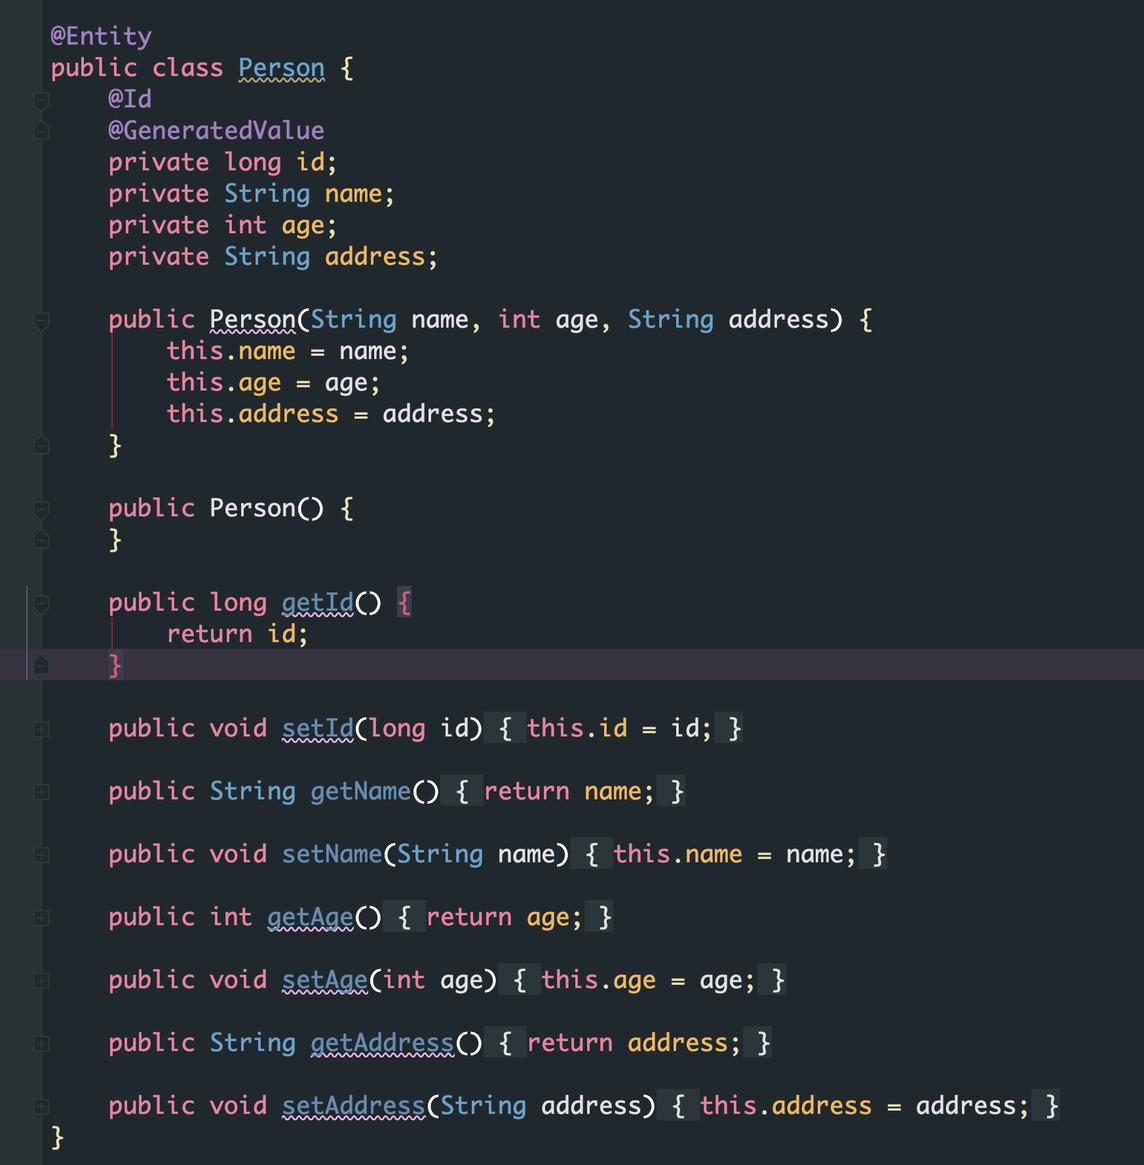
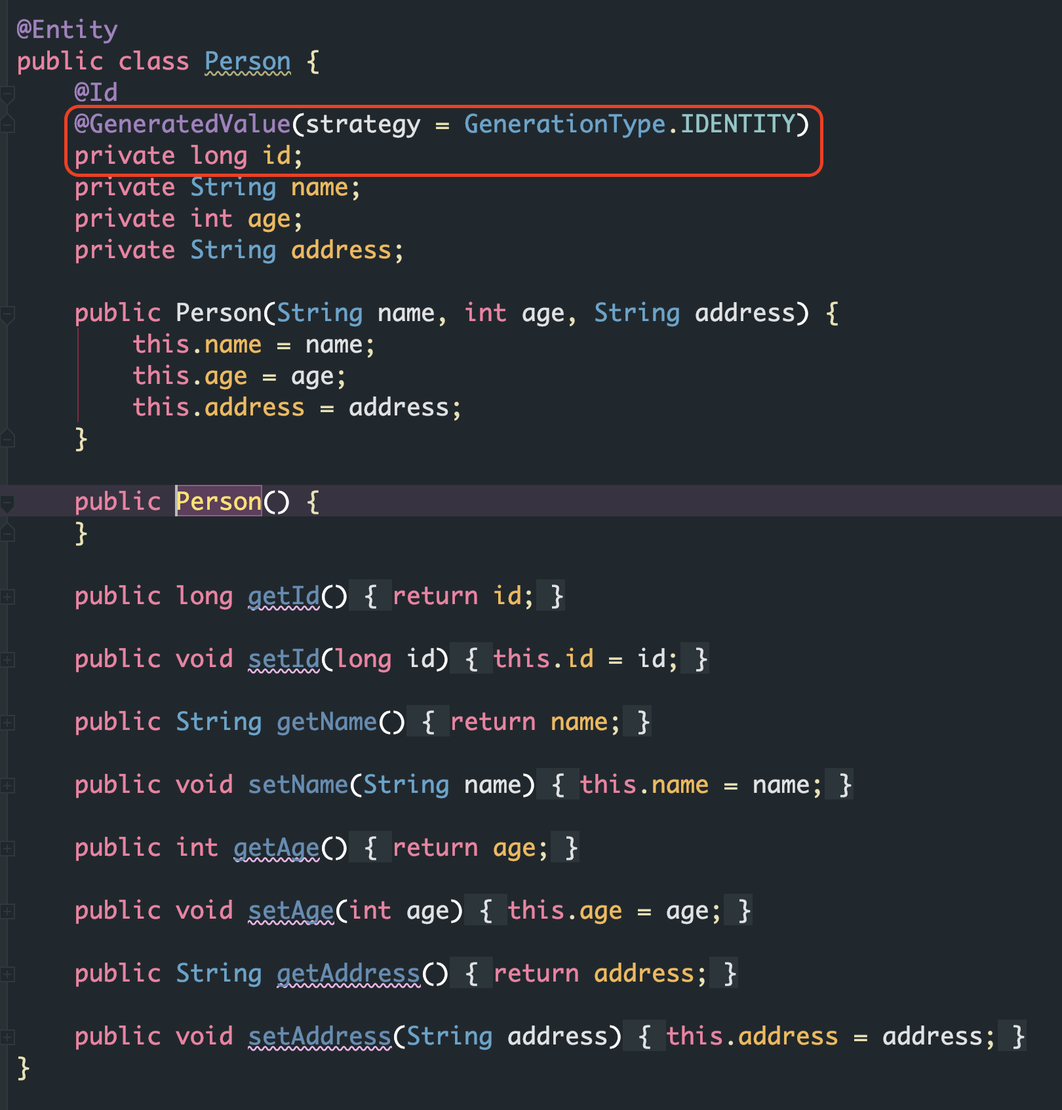
Site updated: 2019-07-10 22:53:06

diff --git a/2019/07/08/stream/index.html b/2019/07/08/stream/index.html
@@ -79,18 +79,18 @@
 
 
 
-<meta name="description" content="JDK1.8 提供了流Stream的API。将数据元素集合看作流，流在管道中传输，并且可以在管道的节点对数据进行筛选、排序，聚合等处理。    1stream of elements -&amp;gt; [filter]-&amp;gt;[sort]-&amp;gt;[map|collect] 什么是流流(Stream)是来自数据源可以进行聚合操作的元素队列。    数据源：流的来源，可以是集合，数组，I/O chann">
+<meta name="description" content="JDK1.8 提供了流Stream的API。将数据元素集合看作流，流在管道中传输，并且可以在管道的节点对数据进行筛选、排序，聚合等处理。    什么是流流(Stream)是来自数据源可以进行聚合操作的元素队列。    数据源：流的来源，可以是集合，数组，I/O channel等。 聚合操作：如filter、map、reduce、find、match、sort等。  流操作的特点 针对流的操作都会立">
 <meta name="keywords" content="java,java8,Stream,学习笔记">
 <meta property="og:type" content="article">
 <meta property="og:title" content="stream">
 <meta property="og:url" content="http://yoursite.com/2019/07/08/stream/index.html">
 <meta property="og:site_name" content="小磊砸的布劳格">
-<meta property="og:description" content="JDK1.8 提供了流Stream的API。将数据元素集合看作流，流在管道中传输，并且可以在管道的节点对数据进行筛选、排序，聚合等处理。    1stream of elements -&amp;gt; [filter]-&amp;gt;[sort]-&amp;gt;[map|collect] 什么是流流(Stream)是来自数据源可以进行聚合操作的元素队列。    数据源：流的来源，可以是集合，数组，I/O chann">
+<meta property="og:description" content="JDK1.8 提供了流Stream的API。将数据元素集合看作流，流在管道中传输，并且可以在管道的节点对数据进行筛选、排序，聚合等处理。    什么是流流(Stream)是来自数据源可以进行聚合操作的元素队列。    数据源：流的来源，可以是集合，数组，I/O channel等。 聚合操作：如filter、map、reduce、find、match、sort等。  流操作的特点 针对流的操作都会立">
 <meta property="og:locale" content="zh-Hans">
-<meta property="og:updated_time" content="2019-07-08T15:22:07.308Z">
+<meta property="og:updated_time" content="2019-07-10T14:52:39.273Z">
 <meta name="twitter:card" content="summary">
 <meta name="twitter:title" content="stream">
-<meta name="twitter:description" content="JDK1.8 提供了流Stream的API。将数据元素集合看作流，流在管道中传输，并且可以在管道的节点对数据进行筛选、排序，聚合等处理。    1stream of elements -&amp;gt; [filter]-&amp;gt;[sort]-&amp;gt;[map|collect] 什么是流流(Stream)是来自数据源可以进行聚合操作的元素队列。    数据源：流的来源，可以是集合，数组，I/O chann">
+<meta name="twitter:description" content="JDK1.8 提供了流Stream的API。将数据元素集合看作流，流在管道中传输，并且可以在管道的节点对数据进行筛选、排序，聚合等处理。    什么是流流(Stream)是来自数据源可以进行聚合操作的元素队列。    数据源：流的来源，可以是集合，数组，I/O channel等。 聚合操作：如filter、map、reduce、find、match、sort等。  流操作的特点 针对流的操作都会立">
 
 
 
@@ -344,14 +344,48 @@
 
       
         <p>JDK1.8 提供了流Stream的API。将数据元素集合看作流，流在管道中传输，并且可以在管道的节点对数据进行筛选、排序，聚合等处理。   </p>
-<figure class="highlight plain"><table><tr><td class="gutter"><pre><span class="line">1</span><br></pre></td><td class="code"><pre><span class="line">stream of elements -&gt; [filter]-&gt;[sort]-&gt;[map|collect]</span><br></pre></td></tr></table></figure>
 <h1 id="什么是流"><a href="#什么是流" class="headerlink" title="什么是流"></a>什么是流</h1><p>流(Stream)是来自数据源可以进行聚合操作的元素队列。  </p>
 <ul>
 <li>数据源：流的来源，可以是集合，数组，I/O channel等。</li>
 <li>聚合操作：如filter、map、reduce、find、match、sort等。</li>
 </ul>
-<h1 id="生成流"><a href="#生成流" class="headerlink" title="生成流"></a>生成流</h1><h1 id="参考资料"><a href="#参考资料" class="headerlink" title="参考资料"></a>参考资料</h1><blockquote>
-<p><a href="https://www.runoob.com/java/java8-streams.html" target="_blank" rel="noopener">菜鸟教程：Stream</a>  </p>
+<h2 id="流操作的特点"><a href="#流操作的特点" class="headerlink" title="流操作的特点"></a>流操作的特点</h2><ul>
+<li>针对流的操作都会立即返回流对象本身，这样多个流的操作会串联成一个管道，流式编码风格(fluent style)，便于对操作进行<strong>延迟执行和短路。</strong></li>
+<li>集合之前的遍历都是通过迭代器iterator或者forEach的方式，显示的从集合外部进行迭代，而<strong>流采用访问者模式进行内部迭代。</strong></li>
+</ul>
+<h3 id="内部迭代与外部迭代的差异"><a href="#内部迭代与外部迭代的差异" class="headerlink" title="内部迭代与外部迭代的差异"></a>内部迭代与外部迭代的差异</h3><table>
+<thead>
+<tr>
+<th>方式</th>
+<th>可控</th>
+<th>顺序</th>
+<th>可并行</th>
+</tr>
+</thead>
+<tbody>
+<tr>
+<td>外部迭代</td>
+<td>✅</td>
+<td>✅</td>
+<td>❌</td>
+</tr>
+<tr>
+<td>内部迭代</td>
+<td>❌</td>
+<td>❌</td>
+<td>✅</td>
+</tr>
+</tbody>
+</table>
+<p><strong>内部迭代的顺序不一定顺序，❌仅仅表示不一定。</strong><br><strong>内部迭代的可并行通过parallelStream()方法，可以并行操作，大幅度提升性能。</strong></p>
+<h1 id="如何操作流"><a href="#如何操作流" class="headerlink" title="如何操作流"></a>如何操作流</h1><figure class="highlight plain"><table><tr><td class="gutter"><pre><span class="line">1</span><br></pre></td><td class="code"><pre><span class="line">生成流 | 中间操作 | 最终操作</span><br></pre></td></tr></table></figure>
+<p>对于流的操作，其实主要就是由生成流、中间操作和最终操作三部分组成。<br><strong>对于一次的流操作，可以有多个中间操作，有且只有一次最终操作。其中中间操作也称为转换操作，即多次中间操作是在对流数据进行转换，这种转换的效率并不受数据的量级影响，转换操作反而是一种惰性求值的过程。而有切只有一次的最终操作其实是将前面所有的转换处理一次执行，这一步会受到数据量级的影响，属于及早求值。</strong>  </p>
+<h1 id="生成流"><a href="#生成流" class="headerlink" title="生成流"></a>生成流</h1><ul>
+<li>stream()方法，会返回流。  </li>
+<li>parallelStream()方法，会为集合创建可并行的流。  </li>
+</ul>
+<h1 id="中间操作"><a href="#中间操作" class="headerlink" title="中间操作"></a>中间操作</h1><h1 id="最终操作"><a href="#最终操作" class="headerlink" title="最终操作"></a>最终操作</h1><h1 id="参考资料"><a href="#参考资料" class="headerlink" title="参考资料"></a>参考资料</h1><blockquote>
+<p><a href="https://www.runoob.com/java/java8-streams.html" target="_blank" rel="noopener">菜鸟教程：Stream</a><br><a href="https://www.cnblogs.com/mrhgw/p/9171883.html" target="_blank" rel="noopener">CSDN：stream详解</a>  </p>
 </blockquote>
 
       
@@ -543,7 +577,7 @@
             
 
             
-              <div class="post-toc-content"><ol class="nav"><li class="nav-item nav-level-1"><a class="nav-link" href="#什么是流"><span class="nav-number">1.</span> <span class="nav-text">什么是流</span></a></li><li class="nav-item nav-level-1"><a class="nav-link" href="#生成流"><span class="nav-number">2.</span> <span class="nav-text">生成流</span></a></li><li class="nav-item nav-level-1"><a class="nav-link" href="#参考资料"><span class="nav-number">3.</span> <span class="nav-text">参考资料</span></a></li></ol></div>
+              <div class="post-toc-content"><ol class="nav"><li class="nav-item nav-level-1"><a class="nav-link" href="#什么是流"><span class="nav-number">1.</span> <span class="nav-text">什么是流</span></a><ol class="nav-child"><li class="nav-item nav-level-2"><a class="nav-link" href="#流操作的特点"><span class="nav-number">1.1.</span> <span class="nav-text">流操作的特点</span></a><ol class="nav-child"><li class="nav-item nav-level-3"><a class="nav-link" href="#内部迭代与外部迭代的差异"><span class="nav-number">1.1.1.</span> <span class="nav-text">内部迭代与外部迭代的差异</span></a></li></ol></li></ol></li><li class="nav-item nav-level-1"><a class="nav-link" href="#如何操作流"><span class="nav-number">2.</span> <span class="nav-text">如何操作流</span></a></li><li class="nav-item nav-level-1"><a class="nav-link" href="#生成流"><span class="nav-number">3.</span> <span class="nav-text">生成流</span></a></li><li class="nav-item nav-level-1"><a class="nav-link" href="#中间操作"><span class="nav-number">4.</span> <span class="nav-text">中间操作</span></a></li><li class="nav-item nav-level-1"><a class="nav-link" href="#最终操作"><span class="nav-number">5.</span> <span class="nav-text">最终操作</span></a></li><li class="nav-item nav-level-1"><a class="nav-link" href="#参考资料"><span class="nav-number">6.</span> <span class="nav-text">参考资料</span></a></li></ol></div>
             
 
           </div>

diff --git a/index.html b/index.html
@@ -344,14 +344,48 @@
         
           
             <p>JDK1.8 提供了流Stream的API。将数据元素集合看作流，流在管道中传输，并且可以在管道的节点对数据进行筛选、排序，聚合等处理。   </p>
-<figure class="highlight plain"><table><tr><td class="gutter"><pre><span class="line">1</span><br></pre></td><td class="code"><pre><span class="line">stream of elements -&gt; [filter]-&gt;[sort]-&gt;[map|collect]</span><br></pre></td></tr></table></figure>
 <h1 id="什么是流"><a href="#什么是流" class="headerlink" title="什么是流"></a>什么是流</h1><p>流(Stream)是来自数据源可以进行聚合操作的元素队列。  </p>
 <ul>
 <li>数据源：流的来源，可以是集合，数组，I/O channel等。</li>
 <li>聚合操作：如filter、map、reduce、find、match、sort等。</li>
 </ul>
-<h1 id="生成流"><a href="#生成流" class="headerlink" title="生成流"></a>生成流</h1><h1 id="参考资料"><a href="#参考资料" class="headerlink" title="参考资料"></a>参考资料</h1><blockquote>
-<p><a href="https://www.runoob.com/java/java8-streams.html" target="_blank" rel="noopener">菜鸟教程：Stream</a>  </p>
+<h2 id="流操作的特点"><a href="#流操作的特点" class="headerlink" title="流操作的特点"></a>流操作的特点</h2><ul>
+<li>针对流的操作都会立即返回流对象本身，这样多个流的操作会串联成一个管道，流式编码风格(fluent style)，便于对操作进行<strong>延迟执行和短路。</strong></li>
+<li>集合之前的遍历都是通过迭代器iterator或者forEach的方式，显示的从集合外部进行迭代，而<strong>流采用访问者模式进行内部迭代。</strong></li>
+</ul>
+<h3 id="内部迭代与外部迭代的差异"><a href="#内部迭代与外部迭代的差异" class="headerlink" title="内部迭代与外部迭代的差异"></a>内部迭代与外部迭代的差异</h3><table>
+<thead>
+<tr>
+<th>方式</th>
+<th>可控</th>
+<th>顺序</th>
+<th>可并行</th>
+</tr>
+</thead>
+<tbody>
+<tr>
+<td>外部迭代</td>
+<td>✅</td>
+<td>✅</td>
+<td>❌</td>
+</tr>
+<tr>
+<td>内部迭代</td>
+<td>❌</td>
+<td>❌</td>
+<td>✅</td>
+</tr>
+</tbody>
+</table>
+<p><strong>内部迭代的顺序不一定顺序，❌仅仅表示不一定。</strong><br><strong>内部迭代的可并行通过parallelStream()方法，可以并行操作，大幅度提升性能。</strong></p>
+<h1 id="如何操作流"><a href="#如何操作流" class="headerlink" title="如何操作流"></a>如何操作流</h1><figure class="highlight plain"><table><tr><td class="gutter"><pre><span class="line">1</span><br></pre></td><td class="code"><pre><span class="line">生成流 | 中间操作 | 最终操作</span><br></pre></td></tr></table></figure>
+<p>对于流的操作，其实主要就是由生成流、中间操作和最终操作三部分组成。<br><strong>对于一次的流操作，可以有多个中间操作，有且只有一次最终操作。其中中间操作也称为转换操作，即多次中间操作是在对流数据进行转换，这种转换的效率并不受数据的量级影响，转换操作反而是一种惰性求值的过程。而有切只有一次的最终操作其实是将前面所有的转换处理一次执行，这一步会受到数据量级的影响，属于及早求值。</strong>  </p>
+<h1 id="生成流"><a href="#生成流" class="headerlink" title="生成流"></a>生成流</h1><ul>
+<li>stream()方法，会返回流。  </li>
+<li>parallelStream()方法，会为集合创建可并行的流。  </li>
+</ul>
+<h1 id="中间操作"><a href="#中间操作" class="headerlink" title="中间操作"></a>中间操作</h1><h1 id="最终操作"><a href="#最终操作" class="headerlink" title="最终操作"></a>最终操作</h1><h1 id="参考资料"><a href="#参考资料" class="headerlink" title="参考资料"></a>参考资料</h1><blockquote>
+<p><a href="https://www.runoob.com/java/java8-streams.html" target="_blank" rel="noopener">菜鸟教程：Stream</a><br><a href="https://www.cnblogs.com/mrhgw/p/9171883.html" target="_blank" rel="noopener">CSDN：stream详解</a>  </p>
 </blockquote>
 
           
@@ -1228,7 +1262,8 @@
 <figure class="highlight plain"><table><tr><td class="gutter"><pre><span class="line">1</span><br></pre></td><td class="code"><pre><span class="line">CREATE TABLE `person` ( `id` int(20) NOT NULL, `name` varchar(20) DEFAULT NULL,`age` int(3) DEFAULT NULL, `address` varchar(20)DEFAULT NULL, PRIMARY KEY (`id`) ) ENGINE=InnoDB DEFAULT CHARSET=utf8</span><br></pre></td></tr></table></figure>
 <p><strong>在实际运行的时候发现，这里存储的sql语句不能有换行符，不然自动初始化表结构的时候会报错</strong></p>
 <h4 id="初始化数据"><a href="#初始化数据" class="headerlink" title="初始化数据"></a>初始化数据</h4><p>在src/main/resources下增加data.sql用来初始化数据。</p>
-<figure class="highlight plain"><table><tr><td class="gutter"><pre><span class="line">1</span><br><span class="line">2</span><br><span class="line">3</span><br></pre></td><td class="code"><pre><span class="line">insert into person(id,name,age,address) values(1,&apos;tl&apos;,27,&apos;beijing&apos;);  </span><br><span class="line">insert into person(id,name,age,address) values(2,&apos;tl01&apos;,20,&apos;wujiaqu&apos;);  </span><br><span class="line">insert into person(id,name,age,address) values(3,&apos;tl03&apos;,21,&apos;xinjiang&apos;);</span><br></pre></td></tr></table></figure>
+<figure class="highlight plain"><table><tr><td class="gutter"><pre><span class="line">1</span><br><span class="line">2</span><br><span class="line">3</span><br><span class="line">4</span><br><span class="line">5</span><br></pre></td><td class="code"><pre><span class="line">insert into person(name,age,address) values(&apos;汪云飞&apos;,32,&apos;合肥&apos;);</span><br><span class="line">insert into person(name,age,address) values(&apos;ta&apos;,32,&apos;合肥&apos;);</span><br><span class="line">insert into person(name,age,address) values(&apos;s&apos;,32,&apos;合肥&apos;);</span><br><span class="line">insert into person(name,age,address) values(&apos;asd&apos;,32,&apos;合肥&apos;);</span><br><span class="line">insert into person(name,age,address) values(&apos;ass&apos;,32,&apos;合肥&apos;);</span><br></pre></td></tr></table></figure>
+<p><strong>这里需要注意的是，mysql对于主键的生成机制是不支持sequence的，书上主键是通过hibernate_sequence.nextval来获取下一个主键这样插入数据的，我这里运行的时候就会报错不识别hibernate_sequence.nextval。所以我在实体类对于主键的生成策略改成了identity，这里的sql脚本就不再关注主键字段，数据库会自动生成。</strong></p>
 <p>需要在应用启动的时候自动初始化数据库，需要在application.properties中配置如下参数</p>
 <figure class="highlight plain"><table><tr><td class="gutter"><pre><span class="line">1</span><br><span class="line">2</span><br><span class="line">3</span><br><span class="line">4</span><br><span class="line">5</span><br><span class="line">6</span><br></pre></td><td class="code"><pre><span class="line"># 指定创建表的脚本</span><br><span class="line">spring.datasource.schema=classpath:table.sql</span><br><span class="line"># 指定初始化数据库的脚本</span><br><span class="line">spring.datasource.data=classpath:data.sql</span><br><span class="line"># 指定初始化的模式(always 总是/)</span><br><span class="line">spring.datasource.initialization-mode=always</span><br></pre></td></tr></table></figure>
 <h4 id="JPA配置-1"><a href="#JPA配置-1" class="headerlink" title="JPA配置"></a>JPA配置</h4><p>在application.properites中增加jpa的配置.</p>
@@ -1270,11 +1305,11 @@
 <li>这里的show-sql参数时设置hibernate操作时在控制台显示实际执行的sql语句</li>
 <li>serialization 控制器输出json字符串格式更加美观</li>
 </ul>
-<h4 id="实体类"><a href="#实体类" class="headerlink" title="实体类"></a>实体类</h4><p><img src="/2019/06/30/springboot-7/entity.png" alt="实体Person源码"></p>
+<h4 id="实体类"><a href="#实体类" class="headerlink" title="实体类"></a>实体类</h4><p><img src="/2019/06/30/springboot-7/entity.png" alt="实体Person源码">  </p>
 <p>如上图所示，增加实体类Person。</p>
 <ul>
 <li>用@Entity注解修饰类 表明该类是实体类</li>
-<li>主键字段用@Id注解，同时使用@GeneratedValue表明主键生成策略为自增，hibernate会自动在数据库中创建一个hibernate_sequence的序列。</li>
+<li>主键字段用@Id注解，同时使用@GeneratedValue表明主键生成策略为自增，hibernate会自动在数据库中创建一个hibernate_sequence的序列。 <strong>我这里专门修改了主键的生成机制</strong></li>
 </ul>
 <p><img src="/2019/06/30/springboot-7/hibernate_sequence.png" alt="hibernate_sequence序列"></p>
 <h4 id="数据访问接口"><a href="#数据访问接口" class="headerlink" title="数据访问接口"></a>数据访问接口</h4><p><img src="/2019/06/30/springboot-7/repository.png" alt="数据访问接口PersonRepository源码">  </p>

diff --git a/2019/06/30/springboot-7/index.html b/2019/06/30/springboot-7/index.html
@@ -105,7 +105,7 @@
 <meta property="og:image" content="http://yoursite.com/2019/06/30/springboot-7/repository.png">
 <meta property="og:image" content="http://yoursite.com/2019/06/30/springboot-7/controller.png">
 <meta property="og:image" content="http://yoursite.com/2019/06/30/springboot-7/test.png">
-<meta property="og:updated_time" content="2019-07-10T14:08:53.436Z">
+<meta property="og:updated_time" content="2019-07-10T14:14:42.466Z">
 <meta name="twitter:card" content="summary">
 <meta name="twitter:title" content="springboot 数据访问">
 <meta name="twitter:description" content="Spring DataSpring Data是Spring用于解决数据访问问题的一系列解决方案。包含大量关系型数据库及非关系型数据库的数据访问解决方案。Spring Data 提供统一的API来进行数据访问操作而屏蔽了不同数据存储技术的差异。Spring提供Spring Data Commons项目无论使用关系型数据库还是非关系型数据库，都能够有Spring的统一标准，该标准提供CRUD(创建，获">
@@ -423,7 +423,8 @@
 <figure class="highlight plain"><table><tr><td class="gutter"><pre><span class="line">1</span><br></pre></td><td class="code"><pre><span class="line">CREATE TABLE `person` ( `id` int(20) NOT NULL, `name` varchar(20) DEFAULT NULL,`age` int(3) DEFAULT NULL, `address` varchar(20)DEFAULT NULL, PRIMARY KEY (`id`) ) ENGINE=InnoDB DEFAULT CHARSET=utf8</span><br></pre></td></tr></table></figure>
 <p><strong>在实际运行的时候发现，这里存储的sql语句不能有换行符，不然自动初始化表结构的时候会报错</strong></p>
 <h4 id="初始化数据"><a href="#初始化数据" class="headerlink" title="初始化数据"></a>初始化数据</h4><p>在src/main/resources下增加data.sql用来初始化数据。</p>
-<figure class="highlight plain"><table><tr><td class="gutter"><pre><span class="line">1</span><br><span class="line">2</span><br><span class="line">3</span><br></pre></td><td class="code"><pre><span class="line">insert into person(id,name,age,address) values(1,&apos;tl&apos;,27,&apos;beijing&apos;);  </span><br><span class="line">insert into person(id,name,age,address) values(2,&apos;tl01&apos;,20,&apos;wujiaqu&apos;);  </span><br><span class="line">insert into person(id,name,age,address) values(3,&apos;tl03&apos;,21,&apos;xinjiang&apos;);</span><br></pre></td></tr></table></figure>
+<figure class="highlight plain"><table><tr><td class="gutter"><pre><span class="line">1</span><br><span class="line">2</span><br><span class="line">3</span><br><span class="line">4</span><br><span class="line">5</span><br></pre></td><td class="code"><pre><span class="line">insert into person(name,age,address) values(&apos;汪云飞&apos;,32,&apos;合肥&apos;);</span><br><span class="line">insert into person(name,age,address) values(&apos;ta&apos;,32,&apos;合肥&apos;);</span><br><span class="line">insert into person(name,age,address) values(&apos;s&apos;,32,&apos;合肥&apos;);</span><br><span class="line">insert into person(name,age,address) values(&apos;asd&apos;,32,&apos;合肥&apos;);</span><br><span class="line">insert into person(name,age,address) values(&apos;ass&apos;,32,&apos;合肥&apos;);</span><br></pre></td></tr></table></figure>
+<p><strong>这里需要注意的是，mysql对于主键的生成机制是不支持sequence的，书上主键是通过hibernate_sequence.nextval来获取下一个主键这样插入数据的，我这里运行的时候就会报错不识别hibernate_sequence.nextval。所以我在实体类对于主键的生成策略改成了identity，这里的sql脚本就不再关注主键字段，数据库会自动生成。</strong></p>
 <p>需要在应用启动的时候自动初始化数据库，需要在application.properties中配置如下参数</p>
 <figure class="highlight plain"><table><tr><td class="gutter"><pre><span class="line">1</span><br><span class="line">2</span><br><span class="line">3</span><br><span class="line">4</span><br><span class="line">5</span><br><span class="line">6</span><br></pre></td><td class="code"><pre><span class="line"># 指定创建表的脚本</span><br><span class="line">spring.datasource.schema=classpath:table.sql</span><br><span class="line"># 指定初始化数据库的脚本</span><br><span class="line">spring.datasource.data=classpath:data.sql</span><br><span class="line"># 指定初始化的模式(always 总是/)</span><br><span class="line">spring.datasource.initialization-mode=always</span><br></pre></td></tr></table></figure>
 <h4 id="JPA配置-1"><a href="#JPA配置-1" class="headerlink" title="JPA配置"></a>JPA配置</h4><p>在application.properites中增加jpa的配置.</p>
@@ -465,11 +466,11 @@
 <li>这里的show-sql参数时设置hibernate操作时在控制台显示实际执行的sql语句</li>
 <li>serialization 控制器输出json字符串格式更加美观</li>
 </ul>
-<h4 id="实体类"><a href="#实体类" class="headerlink" title="实体类"></a>实体类</h4><p><img src="/2019/06/30/springboot-7/entity.png" alt="实体Person源码"></p>
+<h4 id="实体类"><a href="#实体类" class="headerlink" title="实体类"></a>实体类</h4><p><img src="/2019/06/30/springboot-7/entity.png" alt="实体Person源码">  </p>
 <p>如上图所示，增加实体类Person。</p>
 <ul>
 <li>用@Entity注解修饰类 表明该类是实体类</li>
-<li>主键字段用@Id注解，同时使用@GeneratedValue表明主键生成策略为自增，hibernate会自动在数据库中创建一个hibernate_sequence的序列。</li>
+<li>主键字段用@Id注解，同时使用@GeneratedValue表明主键生成策略为自增，hibernate会自动在数据库中创建一个hibernate_sequence的序列。 <strong>我这里专门修改了主键的生成机制</strong></li>
 </ul>
 <p><img src="/2019/06/30/springboot-7/hibernate_sequence.png" alt="hibernate_sequence序列"></p>
 <h4 id="数据访问接口"><a href="#数据访问接口" class="headerlink" title="数据访问接口"></a>数据访问接口</h4><p><img src="/2019/06/30/springboot-7/repository.png" alt="数据访问接口PersonRepository源码">  </p>
